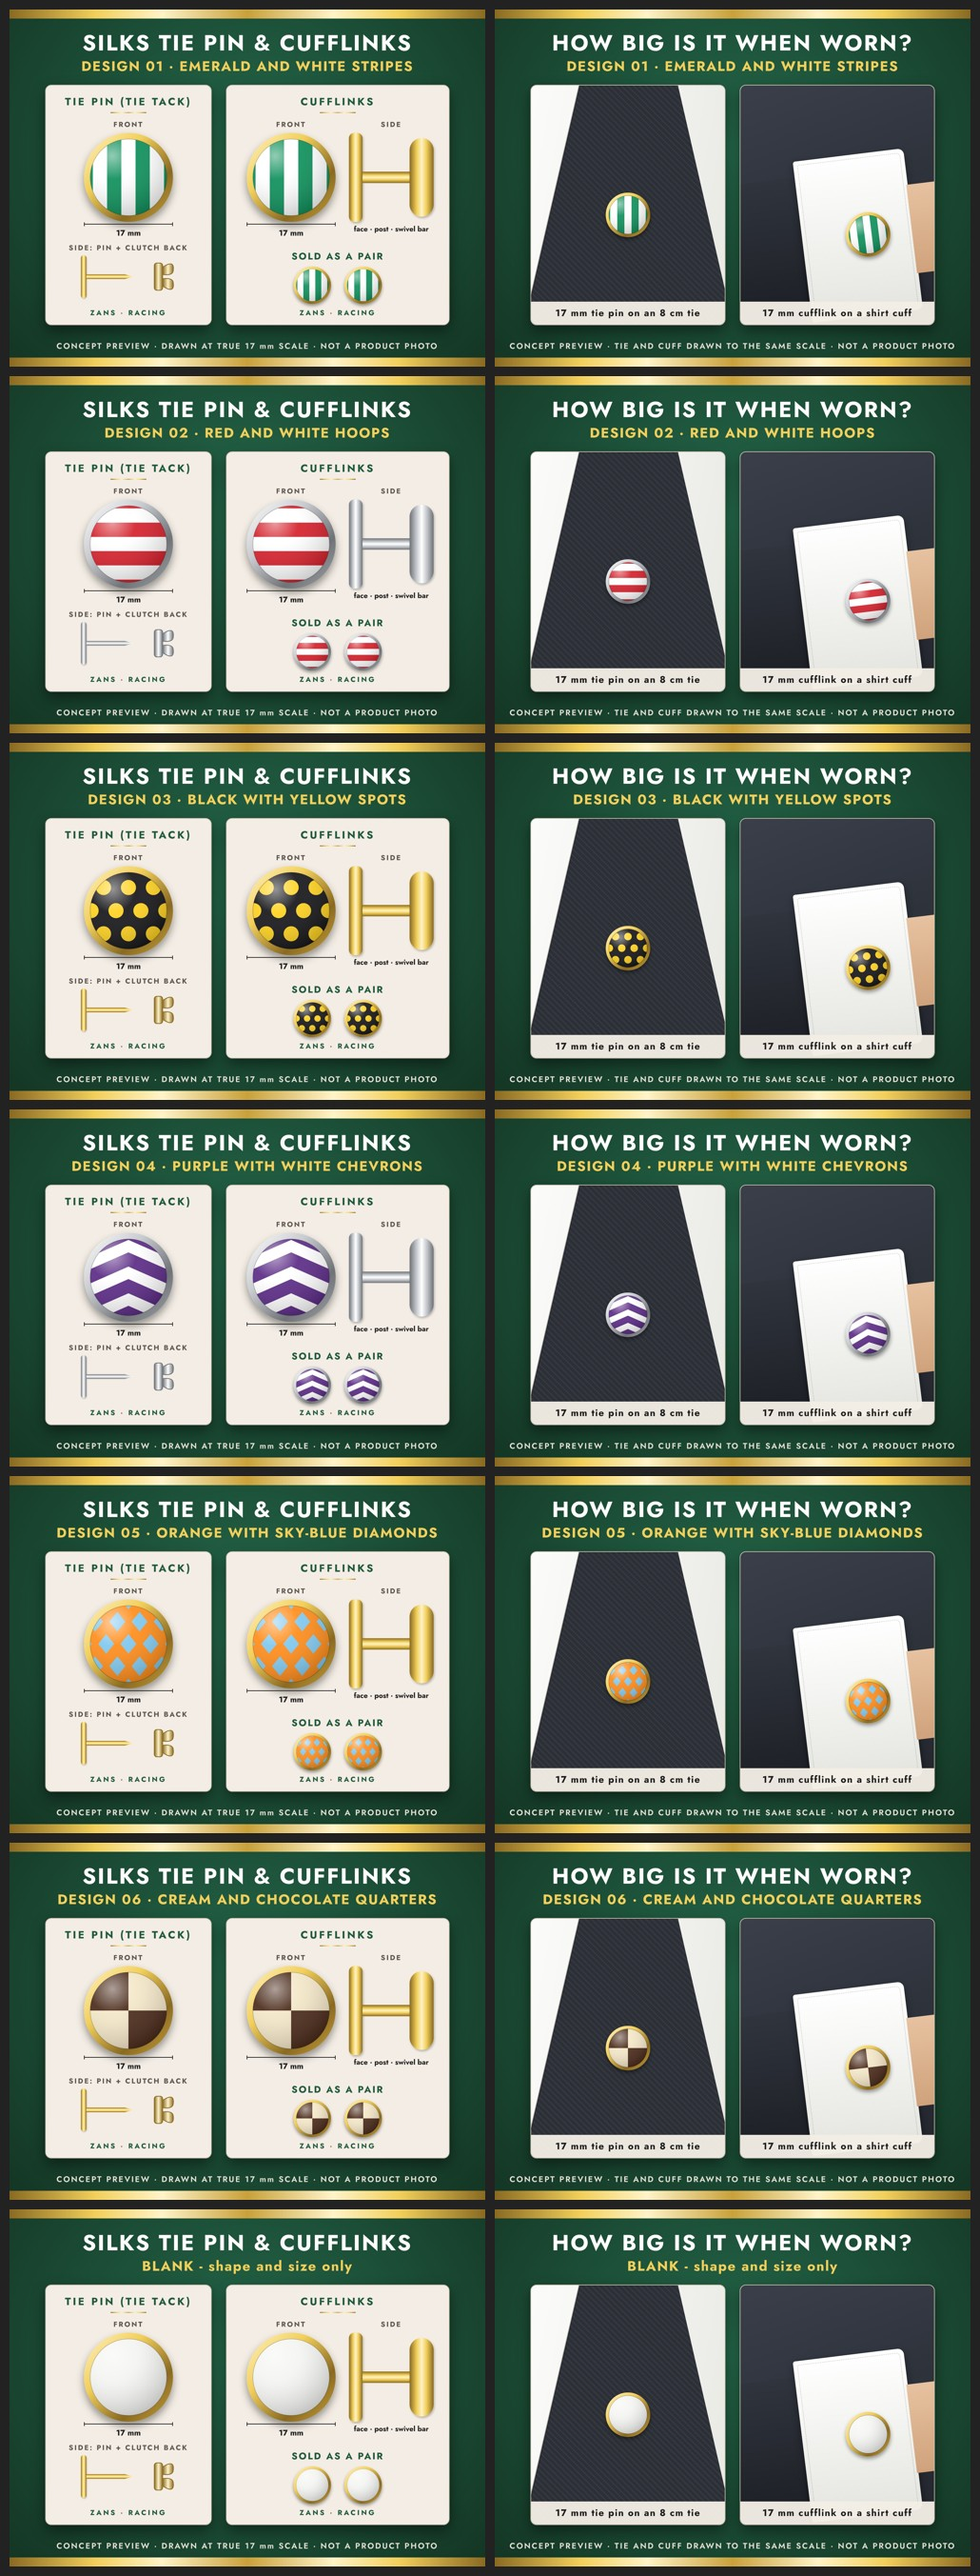
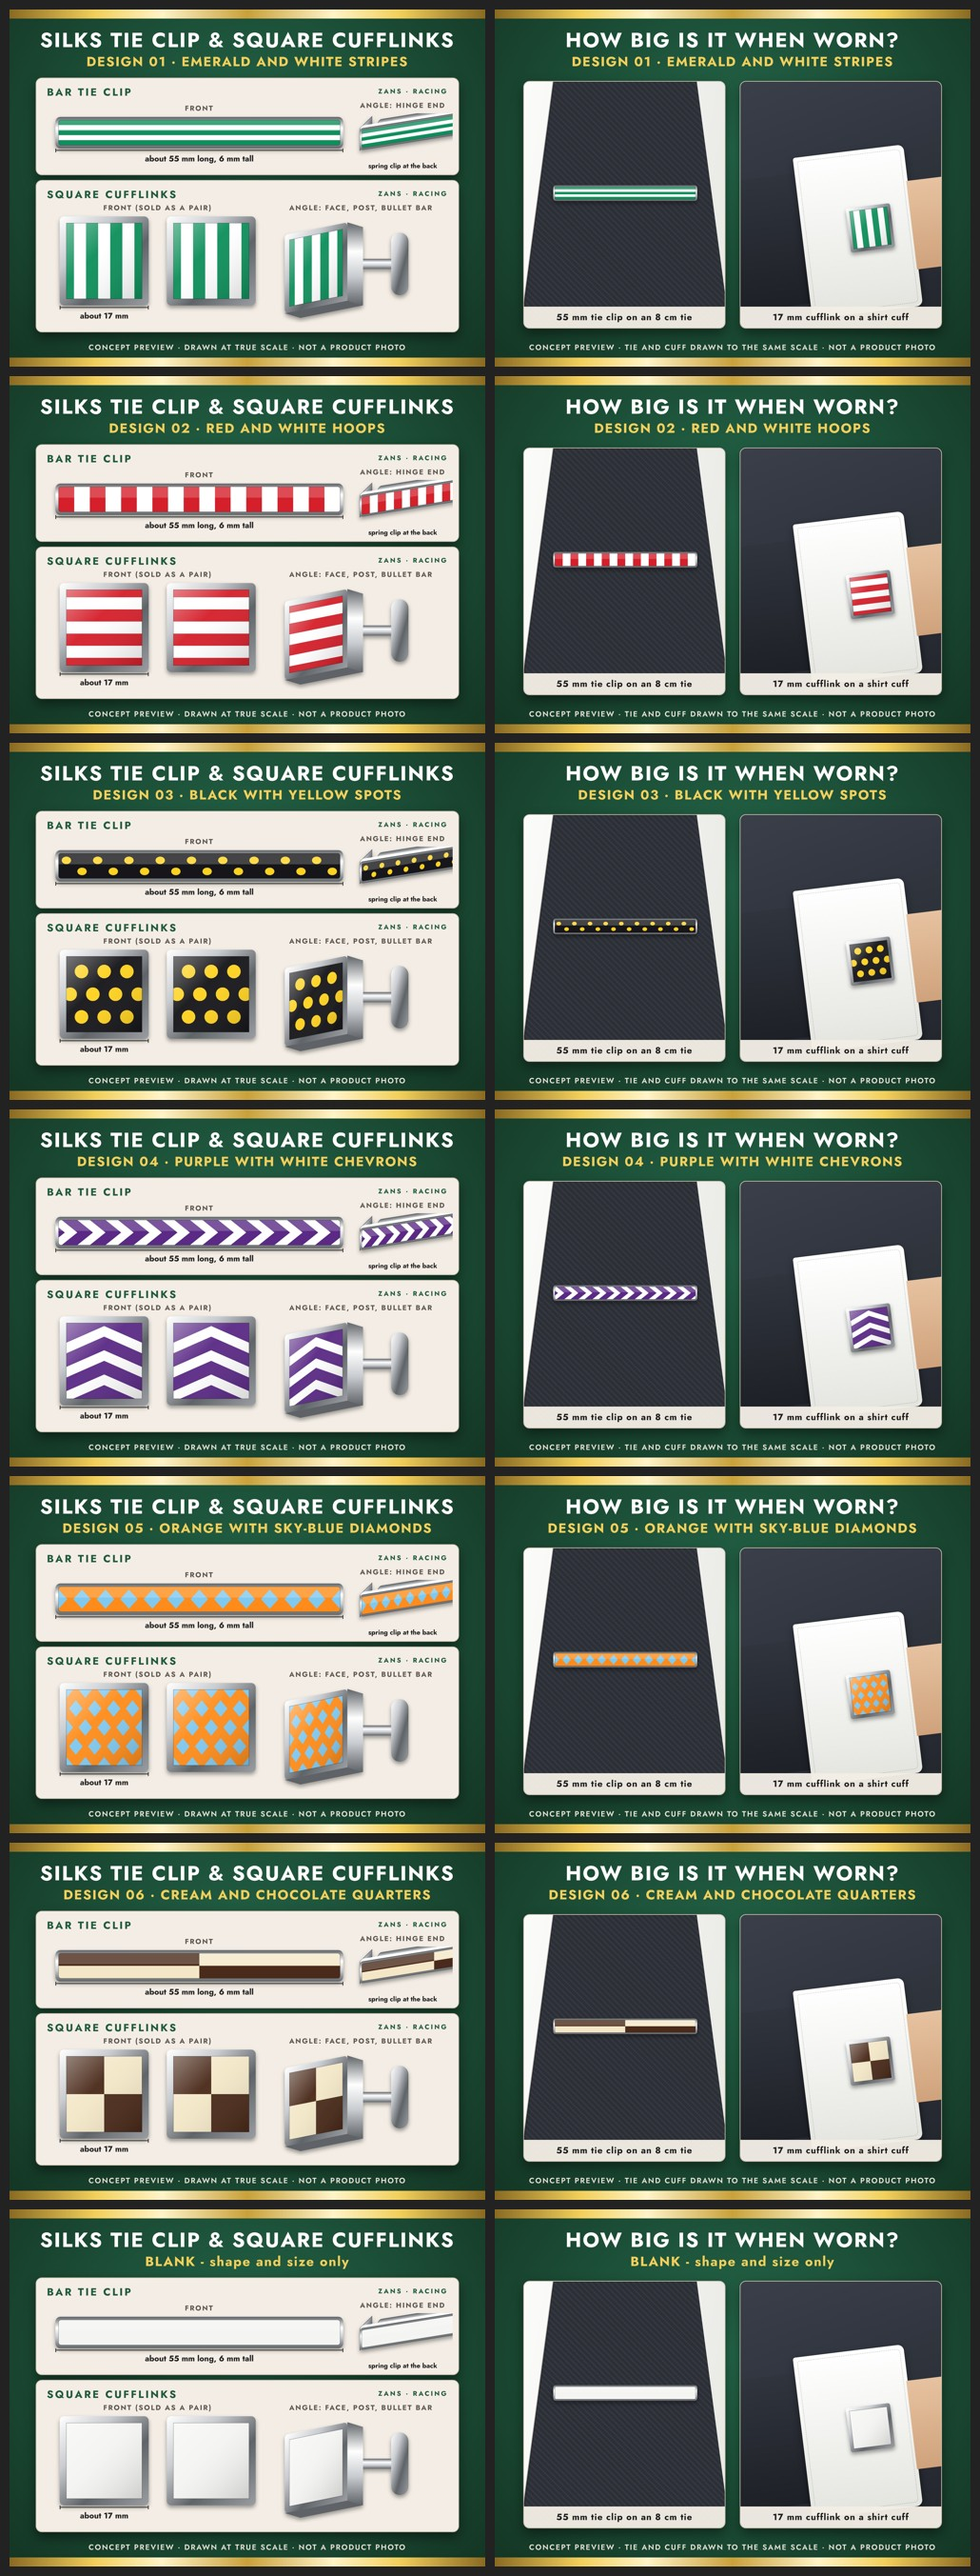
Tie clips and cufflinks v3: slim silver bar tie clip and square chrome cufflinks
Claude-Session: https://claude.ai/code/session_012o9aG5DgvmXWZHsMc4KE4d

Changed region(s): [[0.0311, 0.0, 0.466, 0.9937], [0.5282, 0.0, 0.9631, 0.9937]]

diff --git a/batch/2026-11-25/tie-pins-cufflinks/build_v3.js b/batch/2026-11-25/tie-pins-cufflinks/build_v3.js
@@ -1,0 +1,90 @@
+// v3: SQUARE chrome cufflinks + slim silver BAR tie clip. Code-drawn concept previews. No supplier, no paid credits.
+const { chromium } = require('playwright'); const fs = require('fs'); const path = require('path');
+const T = path.join(__dirname, '../../../templates'); const b64 = f => fs.readFileSync(f).toString('base64');
+const font = (n, w, f) => `@font-face{font-family:'${n}';font-weight:${w};src:url(data:font/woff2;base64,${b64(path.join(T, 'fonts', f))})}`;
+const METAL = 'linear-gradient(90deg,#8a6a22,#f2cf5b 18%,#fff3c8 32%,#c9a13b 50%,#fff3c8 68%,#f2cf5b 82%,#8a6a22)';
+const CH = ['#5f6468', '#c9ccd0', '#ffffff', '#9a9ea3'];
+const sq = { // square insert, 100 x 100
+  stripes: (a, b) => `<rect width="100" height="100" fill="${a}"/>` + [0, 2, 4].map(i => `<rect x="${10 + i * 16}" width="16" height="100" fill="${b}"/>`).join(''),
+  hoops: (a, b) => `<rect width="100" height="100" fill="${a}"/>` + [0, 2, 4].map(i => `<rect y="${10 + i * 16}" width="100" height="16" fill="${b}"/>`).join(''),
+  spots: (a, b) => `<rect width="100" height="100" fill="${a}"/>` + [[20, 20], [50, 20], [80, 20], [35, 50], [65, 50], [20, 80], [50, 80], [80, 80], [5, 50], [95, 50]].map(([x, y]) => `<circle cx="${x}" cy="${y}" r="9" fill="${b}"/>`).join(''),
+  chevrons: (a, b) => `<rect width="100" height="100" fill="${a}"/>` + [4, 36, 68].map(y => `<path d="M0 ${y + 22} L50 ${y} L100 ${y + 22} L100 ${y + 36} L50 ${y + 14} L0 ${y + 36} Z" fill="${b}"/>`).join(''),
+  diamonds: (a, b) => `<rect width="100" height="100" fill="${a}"/>` + [0, 1, 2, 3, 4].flatMap(r => [0, 1, 2, 3, 4].map(c => [c * 25 + (r % 2 ? 12.5 : 0), r * 25])).map(([x, y]) => `<path d="M${x} ${y - 11} L${x + 9} ${y} L${x} ${y + 11} L${x - 9} ${y} Z" fill="${b}"/>`).join(''),
+  quartered: (a, b) => `<rect width="100" height="100" fill="${a}"/><rect width="50" height="50" fill="${b}"/><rect x="50" y="50" width="50" height="50" fill="${b}"/>`,
+  blank: () => `<rect width="100" height="100" fill="#f4f4f2"/>` };
+const bar = { // long bar face, 900 x 100: the same silks idea scaled to read on a slim bar
+  stripes: (a, b) => `<rect width="900" height="100" fill="${a}"/><rect y="20" width="900" height="20" fill="${b}"/><rect y="60" width="900" height="20" fill="${b}"/>`,
+  hoops: (a, b) => `<rect width="900" height="100" fill="${a}"/>` + [...Array(9)].map((_, i) => `<rect x="${50 + i * 100}" width="50" height="100" fill="${b}"/>`).join(''),
+  spots: (a, b) => `<rect width="900" height="100" fill="${a}"/>` + [...Array(18)].map((_, i) => `<circle cx="${25 + i * 50}" cy="${i % 2 ? 72 : 28}" r="15" fill="${b}"/>`).join(''),
+  chevrons: (a, b) => `<rect width="900" height="100" fill="${a}"/>` + [...Array(11)].map((_, i) => `<path d="M${i * 90 - 30} 0 L${i * 90 + 20} 50 L${i * 90 - 30} 100 L${i * 90 + 10} 100 L${i * 90 + 60} 50 L${i * 90 + 10} 0 Z" fill="${b}"/>`).join(''),
+  diamonds: (a, b) => `<rect width="900" height="100" fill="${a}"/>` + [...Array(13)].map((_, i) => `<path d="M${i * 75} 12 L${i * 75 + 28} 50 L${i * 75} 88 L${i * 75 - 28} 50 Z" fill="${b}"/>`).join(''),
+  quartered: (a, b) => `<rect width="900" height="100" fill="${a}"/><rect width="450" height="50" fill="${b}"/><rect x="450" y="50" width="450" height="50" fill="${b}"/>`,
+  blank: () => `<rect width="900" height="100" fill="#f4f4f2"/>` };
+const D = [['01', 'stripes', 'Emerald and white stripes', '#0E8F5B', '#FFFFFF'], ['02', 'hoops', 'Red and white hoops', '#D5202B', '#FFFFFF'], ['03', 'spots', 'Black with yellow spots', '#16161A', '#FFD21F'],
+  ['04', 'chevrons', 'Purple with white chevrons', '#5B2A86', '#FFFFFF'], ['05', 'diamonds', 'Orange with sky-blue diamonds', '#FF8C1A', '#7FC8F0'], ['06', 'quartered', 'Cream and chocolate quarters', '#F4E7C8', '#4A2A1A'], ['00', 'blank', 'BLANK - shape and size only', '', '']];
+let uid = 0; const defs = id => `<linearGradient id="${id}m" x1="0" y1="0" x2="1" y2="1"><stop offset="0" stop-color="${CH[2]}"/><stop offset=".3" stop-color="${CH[1]}"/><stop offset=".62" stop-color="${CH[0]}"/><stop offset="1" stop-color="${CH[3]}"/></linearGradient>
+<linearGradient id="${id}v" x1="0" y1="0" x2="0" y2="1"><stop offset="0" stop-color="${CH[0]}"/><stop offset=".35" stop-color="${CH[2]}"/><stop offset=".65" stop-color="${CH[1]}"/><stop offset="1" stop-color="${CH[0]}"/></linearGradient>
+<linearGradient id="${id}g" x1="0" y1="0" x2="1" y2="1"><stop offset="0" stop-color="#fff" stop-opacity=".42"/><stop offset=".4" stop-color="#fff" stop-opacity=".04"/><stop offset="1" stop-color="#000" stop-opacity=".16"/></linearGradient>
+<filter id="${id}s" x="-30%" y="-30%" width="160%" height="170%"><feDropShadow dx="0" dy="10" stdDeviation="9" flood-opacity=".38"/></filter>`;
+// square cufflink, front-on. s = side in px
+function cuffFront(s, kind, a, b) { const id = 'q' + (uid++), r = s * .075;
+  return `<svg width="${s + 40}" height="${s + 50}" viewBox="-20 -15 ${s + 40} ${s + 50}"><defs>${defs(id)}</defs>
+<rect width="${s}" height="${s}" rx="${s * .05}" fill="url(#${id}m)" filter="url(#${id}s)"/><g transform="translate(${r} ${r}) scale(${(s - 2 * r) / 100})"><clipPath id="${id}q"><rect width="100" height="100"/></clipPath><g clip-path="url(#${id}q)">${sq[kind](a, b)}</g></g>
+<rect x="${r}" y="${r}" width="${s - 2 * r}" height="${s - 2 * r}" fill="url(#${id}g)"/><rect x="${r}" y="${r}" width="${s - 2 * r}" height="${s - 2 * r}" fill="none" stroke="rgba(0,0,0,.3)" stroke-width="2"/></svg>`; }
+// square cufflink at a 3/4 angle: face skewed, chrome side for depth, post and bullet toggle behind
+function cuff34(s, kind, a, b) { const id = 'q' + (uid++), r = s * .075, kx = .8, sk = .2, dp = s * .2, w = s * kx, rise = s * kx * sk;
+  return `<svg width="${w + dp + s * .95 + 40}" height="${s + rise + 60}" viewBox="-20 ${-rise - 20} ${w + dp + s * .95 + 40} ${s + rise + 60}"><defs>${defs(id)}</defs>
+<g filter="url(#${id}s)"><rect x="${w + dp - 4}" y="${s / 2 - rise + dp * .15 - s * .065}" width="${s * .4}" height="${s * .13}" fill="url(#${id}v)"/>
+<rect x="${w + dp + s * .36}" y="${s / 2 - rise + dp * .15 - s * .4}" width="${s * .22}" height="${s * .8}" rx="${s * .11}" fill="url(#${id}m)"/>
+<path d="M${w} ${-rise} L${w + dp} ${-rise + dp * .3} L${w + dp} ${s - rise + dp * .3} L${w} ${s - rise} Z" fill="url(#${id}v)"/>
+<path d="M0 ${s} L${w} ${s - rise} L${w + dp} ${s - rise + dp * .3} L${dp} ${s + dp * .3} Z" fill="${CH[0]}"/>
+<g transform="matrix(${kx} ${-kx * sk} 0 1 0 0)"><rect width="${s}" height="${s}" rx="${s * .05}" fill="url(#${id}m)"/><g transform="translate(${r} ${r}) scale(${(s - 2 * r) / 100})"><clipPath id="${id}q"><rect width="100" height="100"/></clipPath><g clip-path="url(#${id}q)">${sq[kind](a, b)}</g></g>
+<rect x="${r}" y="${r}" width="${s - 2 * r}" height="${s - 2 * r}" fill="url(#${id}g)"/><rect x="${r}" y="${r}" width="${s - 2 * r}" height="${s - 2 * r}" fill="none" stroke="rgba(0,0,0,.3)" stroke-width="2"/></g></g></svg>`; }
+// bar tie clip, front-on. L x H in px
+function clipFront(L, H, kind, a, b) { const id = 'b' + (uid++), r = H * .1;
+  return `<svg width="${L + 40}" height="${H + 50}" viewBox="-20 -15 ${L + 40} ${H + 50}"><defs>${defs(id)}<clipPath id="${id}c"><rect x="${r}" y="${r}" width="${L - 2 * r}" height="${H - 2 * r}" rx="${H * .08}"/></clipPath></defs>
+<rect width="${L}" height="${H}" rx="${H * .16}" fill="url(#${id}v)" filter="url(#${id}s)"/><g clip-path="url(#${id}c)"><g transform="translate(${r} ${r}) scale(${(L - 2 * r) / 900} ${(H - 2 * r) / 100})">${bar[kind](a, b)}</g>
+<rect width="${L}" height="${H * .45}" fill="#fff" opacity=".2"/></g>
+<rect x="${r}" y="${r}" width="${L - 2 * r}" height="${H - 2 * r}" rx="${H * .08}" fill="none" stroke="rgba(0,0,0,.3)" stroke-width="2"/></svg>`; }
+// bar tie clip at a 3/4 angle with the back arm and the spring hinge at the left end
+function clip34(L, H, kind, a, b) { const id = 'b' + (uid++), r = H * .1, kx = .86, sk = .16, w = L * kx, rise = w * sk, off = H * .55;
+  return `<svg width="${w + off + 60}" height="${H + rise + off + 70}" viewBox="-30 ${-rise - off - 20} ${w + off + 60} ${H + rise + off + 70}"><defs>${defs(id)}<clipPath id="${id}c"><rect x="${r}" y="${r}" width="${L - 2 * r}" height="${H - 2 * r}" rx="${H * .08}"/></clipPath></defs>
+<g filter="url(#${id}s)"><g transform="translate(${off} ${-off}) matrix(${kx} ${-kx * sk} 0 1 0 0)"><rect x="${L * .04}" y="${H * .2}" width="${L * .9}" height="${H * .6}" rx="${H * .2}" fill="url(#${id}v)" stroke="${CH[0]}" stroke-width="2"/></g>
+<path d="M0 0 L${off} ${-off} L${off} ${H - off} L0 ${H} Z" fill="url(#${id}m)" stroke="${CH[0]}" stroke-width="2"/><ellipse cx="${off * .5}" cy="${H * .5 - off * .5}" rx="${H * .2}" ry="${H * .26}" fill="${CH[0]}"/><ellipse cx="${off * .5}" cy="${H * .5 - off * .5}" rx="${H * .09}" ry="${H * .12}" fill="${CH[2]}"/>
+<path d="M0 0 L${w} ${-rise} L${w + off * .25} ${-rise - off * .25} L${off * .25} ${-off * .25} Z" fill="${CH[2]}"/>
+<g transform="matrix(${kx} ${-kx * sk} 0 1 0 0)"><rect width="${L}" height="${H}" rx="${H * .16}" fill="url(#${id}v)"/><g clip-path="url(#${id}c)"><g transform="translate(${r} ${r}) scale(${(L - 2 * r) / 900} ${(H - 2 * r) / 100})">${bar[kind](a, b)}</g><rect width="${L}" height="${H * .45}" fill="#fff" opacity=".2"/></g>
+<rect x="${r}" y="${r}" width="${L - 2 * r}" height="${H - 2 * r}" rx="${H * .08}" fill="none" stroke="rgba(0,0,0,.3)" stroke-width="2"/></g></g></svg>`; }
+const head = (t, sub) => `<html><head><style>${font('Jost', 600, 'jost-600.woff2')}${font('Jost', 700, 'jost-700.woff2')}*{box-sizing:border-box;margin:0}
+body{width:2000px;height:1500px;position:relative;overflow:hidden;font-family:Jost;background:radial-gradient(ellipse at 50% 40%,#24684a,#143524)}
+.s{position:absolute;left:0;right:0;height:38px;background:${METAL}}.card{position:absolute;left:110px;width:1780px;background:#F3EDE5;border:3px solid #C9BDAE;border-radius:26px;box-shadow:0 22px 50px rgba(0,0,0,.45)}
+.ct{position:absolute;left:44px;top:26px;font:700 44px Jost;letter-spacing:7px;color:#1F5A3D}.zm{position:absolute;right:44px;top:34px;font:700 28px Jost;letter-spacing:6px;color:#1F5A3D}
+.lab{font:700 30px Jost;letter-spacing:4px;color:#5E574F;text-align:center}.mm{font:700 34px Jost;color:#1C1C1C;text-align:center}
+.pane{position:absolute;top:300px;width:850px;height:1040px;border-radius:26px;overflow:hidden;box-shadow:0 22px 50px rgba(0,0,0,.45);border:3px solid #C9BDAE}
+.cap{position:absolute;left:0;right:0;bottom:0;padding:16px 0 18px;background:rgba(243,237,229,.96);text-align:center;font:700 38px Jost;letter-spacing:2px;color:#1C1C1C}</style></head><body><div class="s" style="top:0"></div><div class="s" style="bottom:0"></div>
+<div style="position:absolute;left:0;right:0;top:66px;text-align:center;font:700 86px Jost;letter-spacing:5px;color:#fff">${t}</div>
+<div style="position:absolute;left:0;right:0;top:178px;text-align:center;font:700 56px Jost;letter-spacing:4px;color:#F2CF5B">${sub}</div>`;
+const foot = t => `<div style="position:absolute;left:0;right:0;bottom:58px;text-align:center;font:600 32px Jost;letter-spacing:4px;color:#EAE2D8">${t}</div></body></html>`;
+const rule = (px, t) => `<div style="width:${px}px;margin:2px auto 0;border-top:3px solid #1C1C1C;position:relative;height:12px"><i style="position:absolute;left:0;top:-9px;height:16px;border-left:3px solid #1C1C1C"></i><i style="position:absolute;right:0;top:-9px;height:16px;border-left:3px solid #1C1C1C"></i></div><div class="mm">${t}</div>`;
+const sub = ([n, , name]) => n === '00' ? name : `DESIGN ${n} · ${name.toUpperCase()}`;
+function page(d) { const [n, kind, , a, b] = d, PX = 22, L = 55 * PX, H = 6 * PX, S = 17 * PX;
+  return head('SILKS TIE CLIP &amp; SQUARE CUFFLINKS', sub(d)) + `
+<div class="card" style="top:286px;height:410px"><div class="ct">BAR TIE CLIP</div><div class="zm">ZANS · RACING</div>
+<div style="position:absolute;left:60px;top:104px;width:${L + 40}px"><div class="lab">FRONT</div>${clipFront(L, H, kind, a, b)}<div style="margin-top:-30px">${rule(L, 'about 55 mm long, 6 mm tall')}</div></div>
+<div style="position:absolute;left:1330px;top:92px;width:420px"><div class="lab">ANGLE: HINGE END</div><div style="width:420px;height:200px;margin-top:12px;overflow:hidden;position:relative"><div style="position:absolute;left:0;bottom:-6px">${clip34(L * .6, H * .7, kind, a, b)}</div></div><div class="mm" style="font-size:28px">spring clip at the back</div></div></div>
+<div class="card" style="top:716px;height:640px"><div class="ct">SQUARE CUFFLINKS</div><div class="zm">ZANS · RACING</div>
+<div style="position:absolute;left:70px;top:92px;width:880px"><div class="lab">FRONT (SOLD AS A PAIR)</div><div style="display:flex;justify-content:center;gap:36px">${cuffFront(S, kind, a, b)}${cuffFront(S, kind, a, b)}</div><div style="margin:-30px ${S + 76}px 0 0">${rule(S, 'about 17 mm')}</div></div>
+<div style="position:absolute;left:1000px;top:92px;width:730px"><div class="lab">ANGLE: FACE, POST, BULLET BAR</div><div style="display:flex;justify-content:center;margin-top:20px">${cuff34(S * .88, kind, a, b)}</div></div></div>` + foot('CONCEPT PREVIEW · DRAWN AT TRUE SCALE · NOT A PRODUCT PHOTO'); }
+function worn(d) { const [, kind, , a, b] = d, S = 11;
+  return head('HOW BIG IS IT WHEN WORN?', sub(d)) + `
+<div class="pane" style="left:120px;background:linear-gradient(100deg,#fbfbf9,#e9e9e4)"><div style="position:absolute;left:50%;top:0;width:6px;height:100%;margin-left:-3px;background:rgba(0,0,0,.06)"></div>
+<svg style="position:absolute;left:0;top:0" width="850" height="1040"><defs><pattern id="w" width="18" height="18" patternTransform="rotate(45)" patternUnits="userSpaceOnUse"><rect width="18" height="18" fill="#2c2f36"/><rect width="18" height="5" fill="#363a43"/></pattern></defs>
+<path d="M${425 - 300} -10 L${425 + 300} -10 L${425 + 80 * S / 2} 1040 L${425 - 80 * S / 2} 1040 Z" fill="url(#w)"/><path d="M${425 - 300} -10 L${425 - 80 * S / 2} 1040" stroke="rgba(0,0,0,.35)" stroke-width="6"/></svg>
+<div style="position:absolute;left:${425 - 55 * S / 2 - 20}px;top:420px">${clipFront(55 * S, 6 * S, kind, a, b)}</div><div class="cap">55 mm tie clip on an 8 cm tie</div></div>
+<div class="pane" style="left:1030px;background:linear-gradient(160deg,#3a3f4a,#22252c)"><div style="position:absolute;left:-40px;top:300px;width:900px;height:${62 * S}px;transform:rotate(-7deg)">
+<div style="position:absolute;left:0;top:${6 * S}px;width:330px;height:${50 * S}px;background:linear-gradient(180deg,#30343d,#1d2026)"></div>
+<div style="position:absolute;left:300px;top:0;width:${68 * S / 1.6}px;height:${62 * S}px;background:linear-gradient(180deg,#ffffff,#e4e4df);border-radius:10px 26px 26px 10px;box-shadow:0 14px 30px rgba(0,0,0,.45)">
+<div style="position:absolute;inset:16px;border:3px dashed rgba(0,0,0,.14);border-radius:6px 18px 18px 6px"></div><div style="position:absolute;right:${6 * S}px;top:50%;transform:translateY(-50%)">${cuffFront(17 * S, kind, a, b)}</div></div>
+<div style="position:absolute;left:${300 + 68 * S / 1.6 - 6}px;top:${14 * S}px;width:260px;height:${34 * S}px;background:linear-gradient(180deg,#e7c2a0,#cfa27c);border-radius:0 90px 90px 0"></div></div><div class="cap">17 mm cufflink on a shirt cuff</div></div>` + foot('CONCEPT PREVIEW · TIE AND CUFF DRAWN TO THE SAME SCALE · NOT A PRODUCT PHOTO'); }
+(async () => { const b = await chromium.launch(); for (const d of D) { const slug = d[2].toLowerCase().replace(/ - .*/, '').replace(/[^a-z]+/g, '-').replace(/-$/, '');
+  for (const [fn, tag] of [[page, 'CONCEPT'], [worn, 'WORN-SCALE']]) { const p = await b.newPage({ viewport: { width: 2000, height: 1500 } }); await p.setContent(fn(d)); await p.waitForTimeout(250);
+    const out = `ZANS-silks-bar-tie-clip-square-cufflinks-${d[0]}-${slug}-${tag}-DRAFT-v3.jpg`; await p.screenshot({ path: path.join(__dirname, out), type: 'jpeg', quality: 93 }); await p.close(); console.log(out); } } await b.close(); })();

diff --git a/batch/2026-11-25/tie-pins-cufflinks/REVIEW-REQUEST-tie-pins-cufflinks.md b/batch/2026-11-25/tie-pins-cufflinks/REVIEW-REQUEST-tie-pins-cufflinks.md
@@ -27,3 +27,12 @@ Honest limits: the pin stem, clutch and swivel bar are a generic drawing, not a 
 - [x] 6. The small unreadable line is gone.
 Files now: 7 x `...-CONCEPT-DRAFT-v2.jpg`, 7 x `...-WORN-SCALE-DRAFT-v2.jpg`, and `ALL-silks-tie-pins-cufflinks-CONTACT-SHEET.jpg` (concept on the left, worn scale on the right, one row per design, blank last). v1 files removed.
 Honest limits: the tie, cuff and hand are simple code drawings; the pin, clutch and swivel bar are generic shapes, not a supplier's part.
+
+## FIXES DONE - ready for re-check: v3, new shapes (25 Nov 2026, 07:15 UTC) - TASKS 64cfbfc + 2c833cd
+- [x] Cufflinks are now SQUARE chrome frames with a thin rim and visible depth; the full silks fills the square insert edge to edge inside the rim. Shown as a front-on pair and at an angle with the post and bullet toggle. Chrome/silver only.
+- [x] Tie pin is now a slim silver BAR TIE CLIP (about 55 mm x 6 mm) with the silks across the whole front face, end to end. Shown front-on and at an angle from the hinge end with the spring clip arm behind.
+- [x] Patterns re-scaled for the bar: stripes run along it, hoops are bands across it, spots in two staggered rows, chevrons and diamonds in one row, quarters split left and right.
+- [x] Worn-scale image per design: the bar clip on a plain 8 cm tie, the square cufflink on a shirt cuff, one scale (11 px per mm).
+- [x] Scale bars sit directly under the bar and under one cufflink face.
+- [x] All 6 designs plus the blank master. Builder `build_v3.js`. Files `ZANS-silks-bar-tie-clip-square-cufflinks-<n>-<name>-CONCEPT-DRAFT-v3.jpg` and `...-WORN-SCALE-DRAFT-v3.jpg` (14) + the contact sheet. Round v2 files removed.
+Honest limits: sizes say "about" because I have no supplier spec (17 mm square and 55 x 6 mm bar are my assumptions); nothing copied from any shop's photos; drawings only.

diff --git a/STATUS-claude-code.md b/STATUS-claude-code.md
@@ -135,3 +135,6 @@ Not started. It is a new 30-day series asked for by ChatGPT, and the task itself
 
 ## FIXES DONE - tie pins and cufflinks v2, ready for re-check (25 Nov 2026, 06:40 UTC)
 All 6 fixes of ADVICE c4a2b94 made; ticked list at the foot of `batch/2026-11-25/tie-pins-cufflinks/REVIEW-REQUEST-tie-pins-cufflinks.md`. 14 images + contact sheet.
+
+## FIXES DONE - bar tie clips + square chrome cufflinks v3, ready for re-check (25 Nov 2026, 07:15 UTC)
+Tasks 64cfbfc and 2c833cd done as previews: `batch/2026-11-25/tie-pins-cufflinks/` (14 v3 images + contact sheet); ticked list at the foot of the review request file. Sizes are assumptions ("about 17 mm", "about 55 x 6 mm") until a supplier spec exists.
